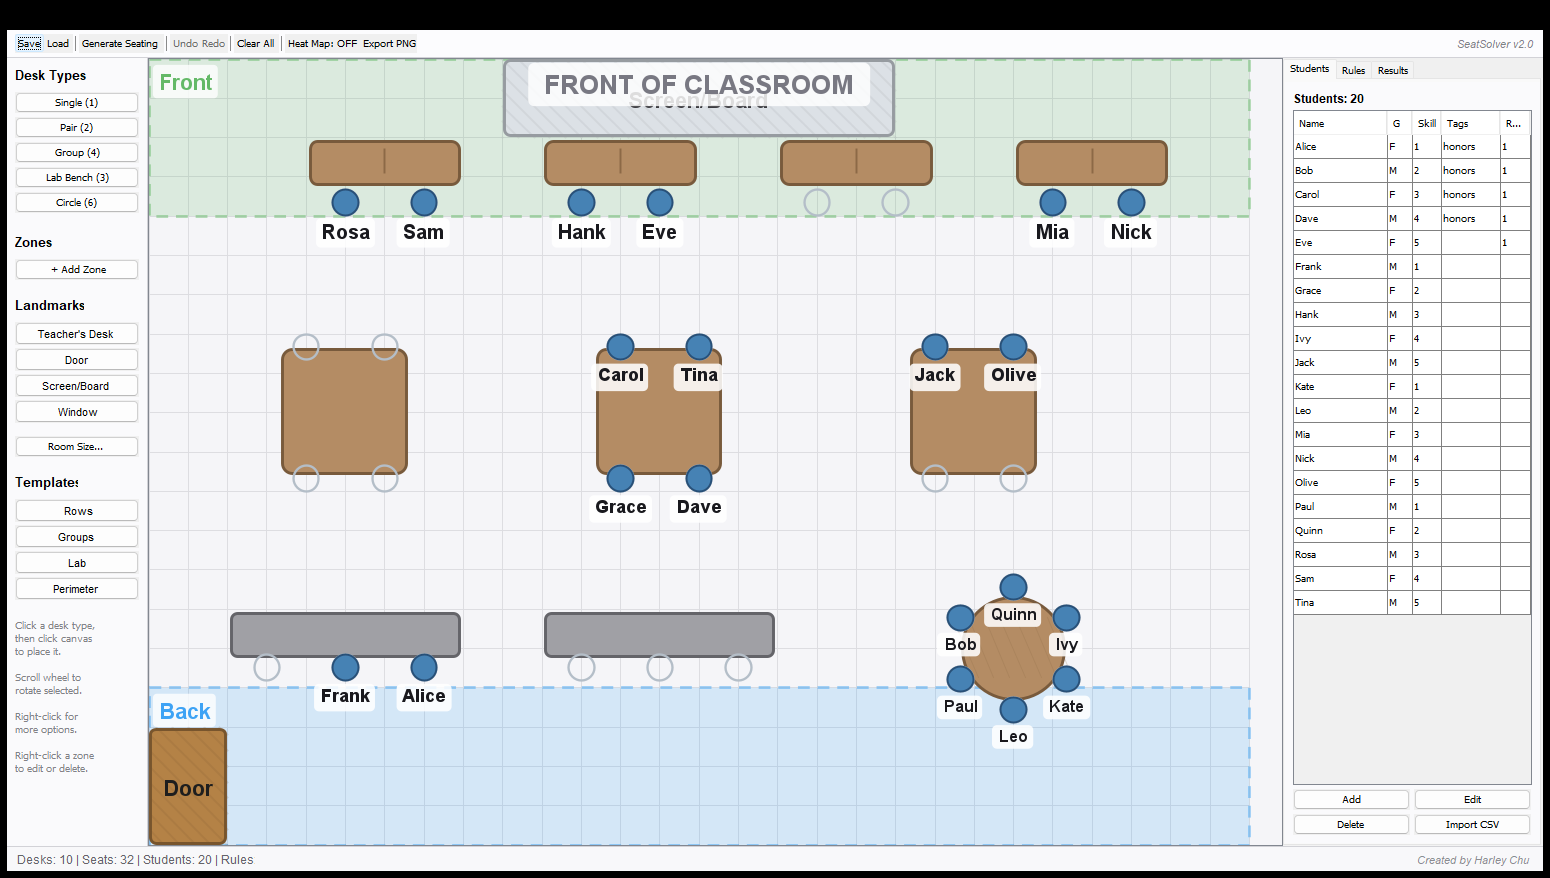
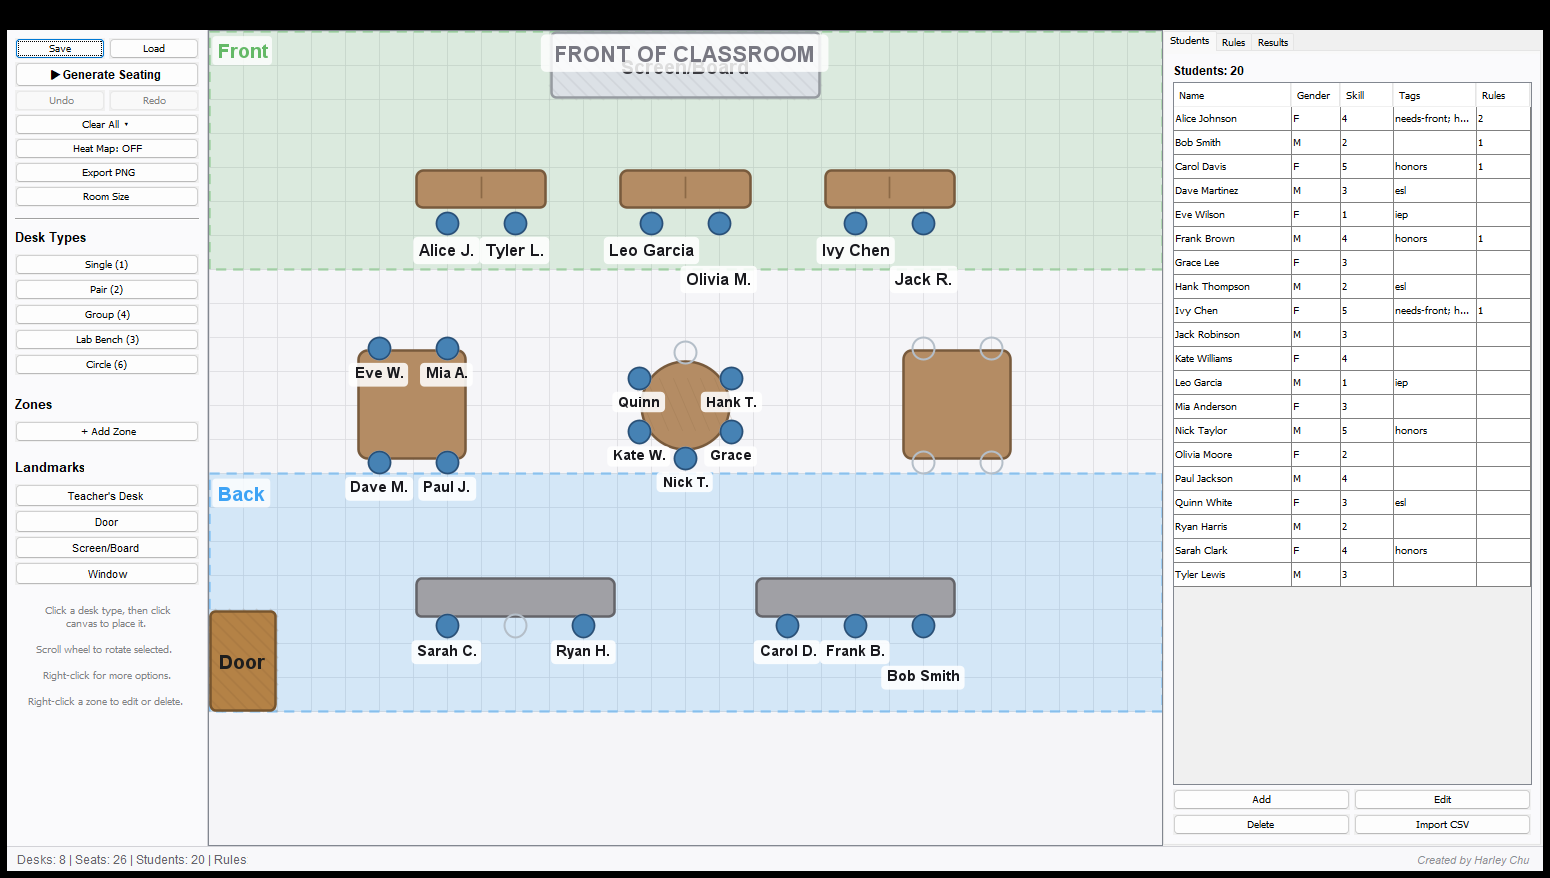
Screenshot: regenerate from current demo layout
- Add GenerateDemoScreenshot utility that loads example_full_demo.json,
  runs the CSP solver, and saves seatsolver_screenshot.png
- MainFrame: expose loadProjectState(LoadResult) so external utilities
  can reuse the same project-load wiring as the File -> Load menu
- Update docs/screenshot.png with the regenerated screenshot showing
  current demo layout (3 pair desks front, 2 groups + circle middle,
  2 lab benches back) with students assigned by the solver

diff --git a/src/main/java/seating/ui/MainFrame.java b/src/main/java/seating/ui/MainFrame.java
@@ -449,56 +449,22 @@ public class MainFrame extends JFrame {
         }
     }
 
+    /**
+     * Applies a loaded project snapshot to this MainFrame. Public so
+     * utilities (e.g. headless screenshot generators) can reuse the same
+     * wiring that the File → Load menu uses.
+     */
+    public void loadProjectState(ProjectFile.LoadResult loaded) {
+        applyLoadedState(loaded);
+    }
+
     private void loadProject() {
         JFileChooser chooser = new JFileChooser();
         chooser.setFileFilter(new javax.swing.filechooser.FileNameExtensionFilter("JSON Files", "json"));
         if (chooser.showOpenDialog(this) == JFileChooser.APPROVE_OPTION) {
             try {
                 ProjectFile.LoadResult loaded = ProjectFile.load(chooser.getSelectedFile());
-
-                // Replace current state
-                this.classroom = loaded.classroom;
-                this.constraintSet = loaded.constraints;
-
-                // Rebuild student list
-                studentPanel.getStudents().clear();
-                studentPanel.getStudents().addAll(loaded.students);
-                studentPanel.setConstraintSet(constraintSet);
-
-                // Rebuild ALL UI components with new classroom
-                undoManager.clear();
-                classroomPanel = new ClassroomPanel(classroom, undoManager);
-                deskPalette = new DeskPalette(classroomPanel);
-                constraintPanel = new ConstraintPanel(constraintSet,
-                    studentPanel.getStudents(), classroom.getZones());
-                constraintPanel.setStudentPanel(studentPanel);
-                studentPanel.setConstraintPanel(constraintPanel);
-                classroomPanel.setConstraintPanel(constraintPanel);
-                studentPanel.setDeleteListener(new StudentPanel.StudentDeleteListener() {
-                    public void onStudentDeleted(Student s) {
-                        constraintPanel.removeConstraintsFor(s);
-                    }
-                });
-                arrangementPanel = new ArrangementPanel(classroomPanel);
-                classroomPanel.setArrangementChangeListener(new ClassroomPanel.ArrangementChangeListener() {
-                    public void onArrangementChanged(seating.model.SeatingArrangement arr) {
-                        arrangementPanel.rescoreAll(
-                        classroomPanel.getConstraintSet(),
-                        classroomPanel.getSeatGraph());
-                    }
-                });
-
-                // Refresh the entire UI
-                getContentPane().removeAll();
-                buildUI();
-                revalidate();
-                repaint();
-                studentPanel.refresh();
-
-                // Recapture initial snapshot so "Reset to Initial Layout" uses the
-                // loaded project as the new baseline, not the previous session's state.
-                initialSnapshot = seating.layout.ResetCommand.Snapshot.capture(classroom);
-
+                applyLoadedState(loaded);
                 String loadMsg = "Project loaded successfully.";
                 if (loaded.loadWarning != null) {
                     loadMsg += "\n\nWarning: " + loaded.loadWarning;
@@ -509,6 +475,51 @@ public class MainFrame extends JFrame {
                     "Load Error", JOptionPane.ERROR_MESSAGE);
             }
         }
+    }
+
+    private void applyLoadedState(ProjectFile.LoadResult loaded) {
+        // Replace current state
+        this.classroom = loaded.classroom;
+        this.constraintSet = loaded.constraints;
+
+        // Rebuild student list
+        studentPanel.getStudents().clear();
+        studentPanel.getStudents().addAll(loaded.students);
+        studentPanel.setConstraintSet(constraintSet);
+
+        // Rebuild ALL UI components with new classroom
+        undoManager.clear();
+        classroomPanel = new ClassroomPanel(classroom, undoManager);
+        deskPalette = new DeskPalette(classroomPanel);
+        constraintPanel = new ConstraintPanel(constraintSet,
+            studentPanel.getStudents(), classroom.getZones());
+        constraintPanel.setStudentPanel(studentPanel);
+        studentPanel.setConstraintPanel(constraintPanel);
+        classroomPanel.setConstraintPanel(constraintPanel);
+        studentPanel.setDeleteListener(new StudentPanel.StudentDeleteListener() {
+            public void onStudentDeleted(Student s) {
+                constraintPanel.removeConstraintsFor(s);
+            }
+        });
+        arrangementPanel = new ArrangementPanel(classroomPanel);
+        classroomPanel.setArrangementChangeListener(new ClassroomPanel.ArrangementChangeListener() {
+            public void onArrangementChanged(seating.model.SeatingArrangement arr) {
+                arrangementPanel.rescoreAll(
+                    classroomPanel.getConstraintSet(),
+                    classroomPanel.getSeatGraph());
+            }
+        });
+
+        // Refresh the entire UI
+        getContentPane().removeAll();
+        buildUI();
+        revalidate();
+        repaint();
+        studentPanel.refresh();
+
+        // Recapture initial snapshot so "Reset to Initial Layout" uses the
+        // loaded project as the new baseline, not the previous session's state.
+        initialSnapshot = seating.layout.ResetCommand.Snapshot.capture(classroom);
     }
 
     private void generateSeating() {

diff --git a/src/main/java/seating/GenerateDemoScreenshot.java b/src/main/java/seating/GenerateDemoScreenshot.java
@@ -1,0 +1,105 @@
+package seating;
+
+import seating.constraint.ConstraintSet;
+import seating.io.ProjectFile;
+import seating.model.Classroom;
+import seating.model.Desk;
+import seating.model.SeatingArrangement;
+import seating.model.Student;
+import seating.solver.CSPSolver;
+import seating.solver.SeatGraph;
+import seating.solver.SolverResult;
+import seating.ui.MainFrame;
+
+import javax.imageio.ImageIO;
+import javax.swing.SwingUtilities;
+import javax.swing.UIManager;
+import java.awt.Graphics2D;
+import java.awt.image.BufferedImage;
+import java.io.File;
+
+/**
+ * Standalone utility that loads example_full_demo.json, runs the CSP solver,
+ * and saves a screenshot of the resulting UI to seatsolver_screenshot.png.
+ * Used by create_slides.js / create_writeup.js / create_prep_guide.js.
+ *
+ * <p>Run from the project root: {@code java -cp out seating.GenerateDemoScreenshot}.
+ */
+public final class GenerateDemoScreenshot {
+
+    private GenerateDemoScreenshot() {}
+
+    public static void main(String[] args) throws Exception {
+        SwingUtilities.invokeAndWait(new Runnable() {
+            public void run() {
+                try {
+                    UIManager.setLookAndFeel(UIManager.getSystemLookAndFeelClassName());
+                } catch (Exception e) {}
+
+                MainFrame frame = new MainFrame();
+                frame.setExtendedState(java.awt.Frame.MAXIMIZED_BOTH);
+                frame.setVisible(true);
+
+                try {
+                    File demoFile = new File("example_full_demo.json");
+                    ProjectFile.LoadResult loaded = ProjectFile.load(demoFile);
+
+                    // Wire the loaded state into the live MainFrame.
+                    frame.loadProjectState(loaded);
+
+                    // Lay out desks so seat global positions are set before scoring.
+                    Classroom room = frame.getClassroom();
+                    int gs = room.getGridSize();
+                    BufferedImage scratch = new BufferedImage(
+                        room.getPixelWidth(), room.getPixelHeight(),
+                        BufferedImage.TYPE_INT_ARGB);
+                    Graphics2D g = scratch.createGraphics();
+                    for (Desk d : room.getDesks()) d.draw(g, gs);
+                    g.dispose();
+
+                    // Solve and apply the best arrangement.
+                    ConstraintSet cs = frame.getConstraintSet();
+                    SeatGraph graph = SeatGraph.buildFrom(room);
+                    CSPSolver solver = new CSPSolver(cs, graph, 5, 5000);
+                    SolverResult result = solver.solve(
+                        frame.getStudentPanel().getStudents(), room.getAllSeats());
+                    if (!result.isEmpty()) {
+                        SeatingArrangement best = result.getBest();
+                        frame.getClassroomPanel().setCurrentArrangement(best);
+                        frame.getClassroomPanel().setConstraintData(cs, graph);
+                        System.out.println("Solver: " + result.size() + " solutions, best score "
+                            + String.format("%.2f", best.getScore()));
+                    } else {
+                        System.out.println("Solver found no arrangements — screenshot will have empty seats.");
+                    }
+                } catch (Exception loadEx) {
+                    System.out.println("Demo load/solve failed: " + loadEx.getMessage());
+                    loadEx.printStackTrace();
+                }
+
+                // Give Swing one paint cycle, then capture.
+                javax.swing.Timer timer = new javax.swing.Timer(1500, new java.awt.event.ActionListener() {
+                    public void actionPerformed(java.awt.event.ActionEvent e) {
+                        try {
+                            BufferedImage shot = new BufferedImage(
+                                frame.getWidth(), frame.getHeight(),
+                                BufferedImage.TYPE_INT_RGB);
+                            frame.paint(shot.getGraphics());
+                            File out = new File("seatsolver_screenshot.png");
+                            ImageIO.write(shot, "png", out);
+                            System.out.println("Screenshot saved: " + out.getAbsolutePath());
+                        } catch (Exception ex) {
+                            System.out.println("Screenshot failed: " + ex.getMessage());
+                            ex.printStackTrace();
+                        } finally {
+                            frame.dispose();
+                            System.exit(0);
+                        }
+                    }
+                });
+                timer.setRepeats(false);
+                timer.start();
+            }
+        });
+    }
+}
